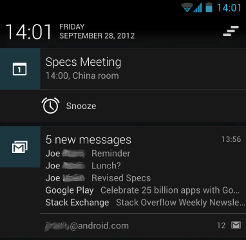
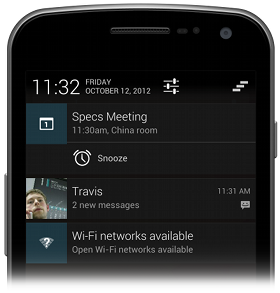
small update to Toast guide, flatten sidenav for notifications/toasts, new screenshots for notifications

diff --git a/docs/html/guide/guide_toc.cs b/docs/html/guide/guide_toc.cs
@@ -191,28 +191,21 @@
       <li><a href="<?cs var:toroot ?>guide/topics/ui/menus.html">
           <span class="en">Menus</span></span>
           </a></li>
-      <li><a href="<?cs var:toroot ?>guide/topics/ui/dialogs.html">
-           <span class="en">Dialogs</span>
-          </a></li>
       <li><a href="<?cs var:toroot ?>guide/topics/ui/actionbar.html">
            <span class="en">Action Bar</span>
           </a></li>
       <li><a href="<?cs var:toroot ?>guide/topics/ui/settings.html">
             <span class="en">Settings</span>
           </a></li>
-      <li class="nav-section">
-          <div class="nav-section-header"><a href="<?cs var:toroot ?>guide/topics/ui/notifiers/index.html">
-              <span class="en">Notifications</span>
-            </a></div>
-          <ul>
-          <li><a href="<?cs var:toroot ?>guide/topics/ui/notifiers/toasts.html">
-              <span class="en">Toast Notifications</span>
-            </a></li>
-          <li><a href="<?cs var:toroot ?>guide/topics/ui/notifiers/notifications.html">
-              <span class="en">Status Notifications</span>
-            </a></li>
-          </ul>
-      </li>
+      <li><a href="<?cs var:toroot ?>guide/topics/ui/dialogs.html">
+           <span class="en">Dialogs</span>
+          </a></li>
+      <li><a href="<?cs var:toroot ?>guide/topics/ui/notifiers/notifications.html">
+          <span class="en">Notifications</span>
+        </a></li>
+      <li><a href="<?cs var:toroot ?>guide/topics/ui/notifiers/toasts.html">
+          <span class="en">Toasts</span>
+        </a></li>
       <li class="nav-section">
         <div class="nav-section-header"><a href="<?cs var:toroot ?>guide/topics/search/index.html">
             <span class="en">Search</span>
